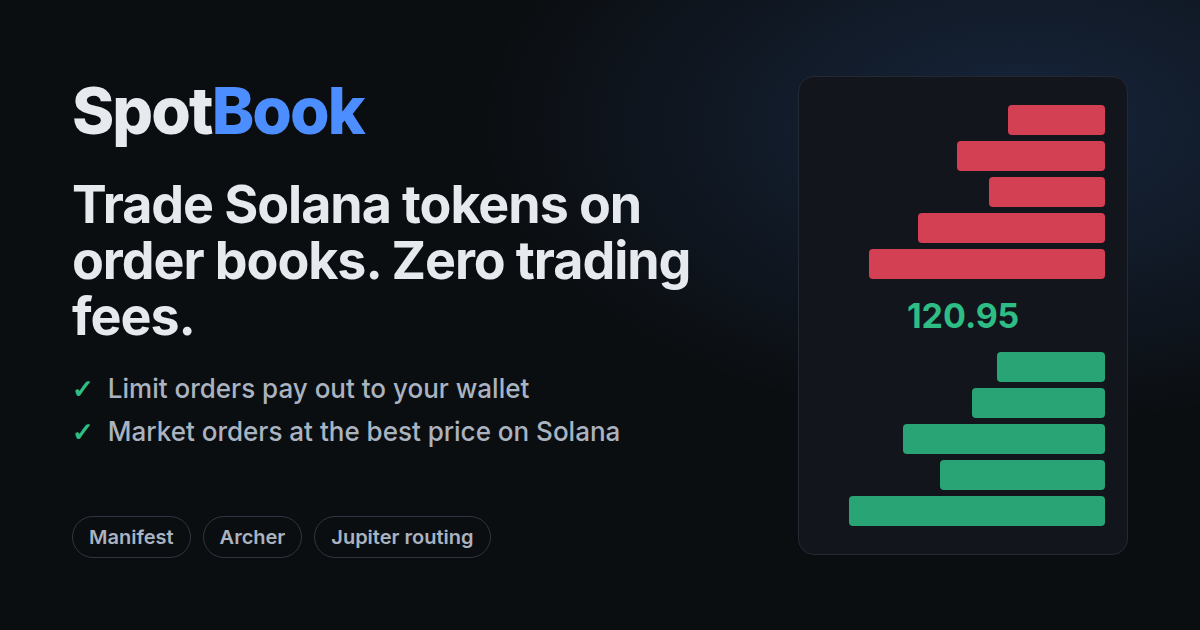
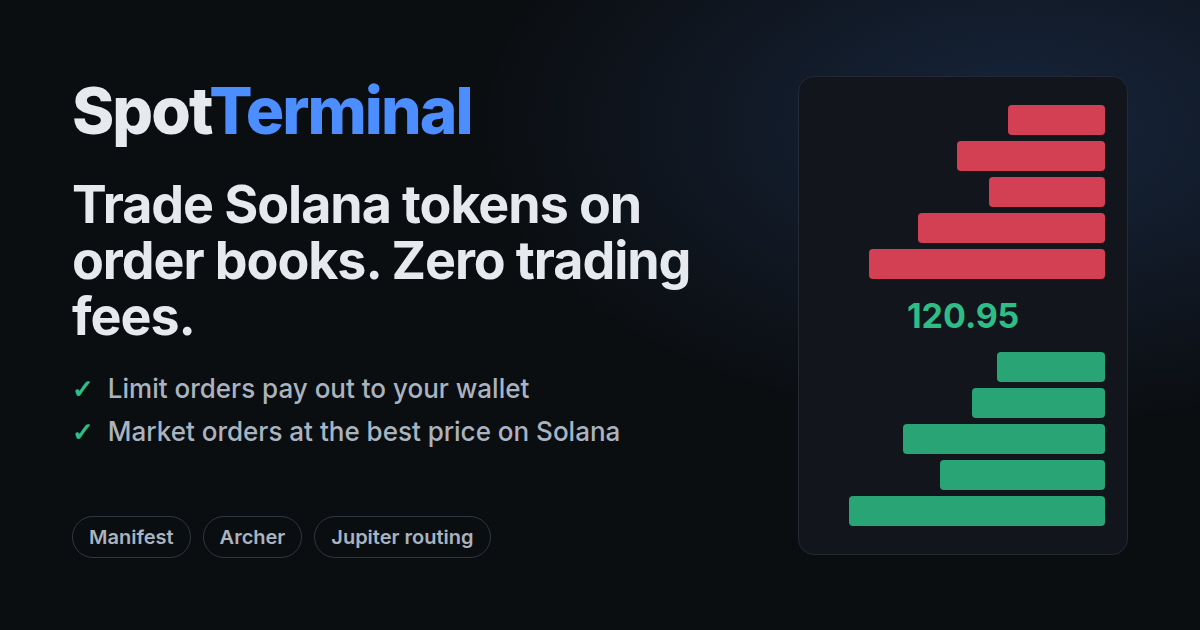
Rename to SpotTerminal (spotterminal.com); SEO basics
- SpotBook -> SpotTerminal everywhere (brand, logo, share image, manifest, notifications, tax
  exports, legal pages); canonical URLs on https://spotterminal.com (PUBLIC_URL), www redirects
  to the apex.
- robots.txt, sitemap.xml (home, legal pages, the 1000 busiest markets with verified tokens),
  WebApplication JSON-LD on the home page, noindex on /account, and real 404s for unknown URLs
  instead of 200s (soft 404s).
- deploy/: nginx configs for spotterminal.com (certbot) and juporderbook.com, which goes back to
  the original app on port 3006.
- deploy.sh passes --update-env so ecosystem env changes take effect.

Claude-Session: https://claude.ai/code/session_019AgDqVqMe97GtyVzU47gWg

Changed region(s): [[0.1542, 0.1206, 0.4008, 0.2111]]

diff --git a/backend/src/server.js b/backend/src/server.js
@@ -49,7 +49,7 @@ async function referencePrice(address) {
 }
 
 const ammChart = new AmmChart({ markets });
-const ledger = new Ledger(); // what moved into / out of SpotBook, for the tax exports
+const ledger = new Ledger(); // what moved into / out of SpotTerminal, for the tax exports
 const orders = new OrderService({
     markets, store: orderStore, keeperPubkey: keeperKeypair.publicKey, referencePrice, ledger,
     jupiter: (path, init) => registry.jupFetch(path, init),
@@ -204,6 +204,12 @@ function requireMarket(req, res) {
 }
 
 const app = express();
+// One address for search engines and links: www.spotterminal.com -> spotterminal.com.
+app.use((req, res, next) => {
+    const host = req.get('host') || '';
+    if (host.startsWith('www.')) return res.redirect(301, `https://${host.slice(4)}${req.originalUrl}`);
+    next();
+});
 app.disable('x-powered-by');
 app.use(express.json({ limit: '64kb' }));
 
@@ -614,7 +620,7 @@ app.get('/api/tax/export', rateLimit('tax', 30, 60_000), (req, res) => {
         const rows = buildRows(ledger.forWallet(wallet), (mint) => registry.display(mint), { year });
         log.info('tax', 'export', { wallet: short(wallet), app: taxApp, year: year || 'all', rows: rows.length });
         res.set('Content-Type', 'text/csv; charset=utf-8');
-        res.set('Content-Disposition', `attachment; filename="spotbook-${taxApp}-${year || 'all-time'}.csv"`);
+        res.set('Content-Disposition', `attachment; filename="spotterminal-${taxApp}-${year || 'all-time'}.csv"`);
         res.set('Cache-Control', 'no-store');
         res.send(exportCsv(taxApp, rows));
     } catch (err) {
@@ -682,6 +688,50 @@ app.use('/api', (req, res) => res.status(404).json({ error: 'Not found' }));
 
 const DEFAULT_DESCRIPTION = 'Trade Solana tokens on on-chain order books with zero trading fees. Limit orders pay out to your wallet automatically; market orders get the best price across Solana.';
 const PAGE_TITLES = { '/account': 'Account', '/terms': 'Terms of Service', '/privacy': 'Privacy Policy' };
+// Pages search engines shouldn't list: personal (account) or a redirect (old orderbook links).
+const NOINDEX = new Set(['/account', '/orderbook']);
+const siteOrigin = (req) => config.publicUrl || `https://${req.get('host')}`;
+
+/** A real page (200) or not (404, so search engines don't list made-up URLs as pages). */
+function pageExists(req) {
+    if (req.path === '/' || PAGE_TITLES[req.path] || NOINDEX.has(req.path)) return true;
+    const m = req.path.match(/^\/trade\/([1-9A-HJ-NP-Za-km-z]{32,44})$/);
+    return !!(m && markets.summary(m[1]));
+}
+
+app.get('/robots.txt', (req, res) => {
+    res.type('text/plain').set('Cache-Control', 'public, max-age=3600').send([
+        'User-agent: *',
+        'Allow: /',
+        'Disallow: /api/',
+        'Disallow: /account',
+        '',
+        `Sitemap: ${siteOrigin(req)}/sitemap.xml`,
+        '',
+    ].join('\n'));
+});
+
+// The home page, the legal pages, and the markets worth finding: both tokens verified and
+// trading, busiest first.
+app.get('/sitemap.xml', (req, res) => {
+    const origin = siteOrigin(req);
+    const today = new Date().toISOString().slice(0, 10);
+    const tradable = markets.allSummaries()
+        .filter(s => s.bidCount + s.askCount > 0)
+        .map(marketView)
+        .filter(v => v.base.verified && v.quote.verified)
+        .sort((a, b) => (b.volume24hUsd ?? 0) - (a.volume24hUsd ?? 0))
+        .slice(0, 1000);
+    const url = (loc, priority, freq) => `  <url><loc>${escapeHtml(origin + loc)}</loc><lastmod>${today}</lastmod><changefreq>${freq}</changefreq><priority>${priority}</priority></url>`;
+    const body = [
+        url('/', '1.0', 'daily'),
+        ...tradable.map((v, i) => url(`/trade/${v.address}`, i < 50 ? '0.8' : '0.5', 'hourly')),
+        url('/terms', '0.2', 'yearly'),
+        url('/privacy', '0.2', 'yearly'),
+    ];
+    res.type('application/xml').set('Cache-Control', 'public, max-age=3600')
+        .send(`<?xml version="1.0" encoding="UTF-8"?>\n<urlset xmlns="http://www.sitemaps.org/schemas/sitemap/0.9">\n${body.join('\n')}\n</urlset>\n`);
+});
 const escapeHtml = (v) => String(v).replace(/[&<>"']/g, c => ({ '&': '&amp;', '<': '&lt;', '>': '&gt;', '"': '&quot;', "'": '&#39;' }[c]));
 
 function pageMeta(req) {
@@ -705,9 +755,9 @@ function formatNumber(n) {
     return n >= 1 ? n.toLocaleString('en-US', { maximumFractionDigits: n >= 100 ? 2 : 4 }) : n.toPrecision(4);
 }
 
-function renderIndex(html, req) {
+function renderIndex(html, req, { found = true } = {}) {
     const { title, description } = pageMeta(req);
-    const origin = config.publicUrl || `https://${req.get('host')}`;
+    const origin = siteOrigin(req);
     const url = `${origin}${req.path === '/' ? '' : req.path}`;
     const image = `${origin}/og.png`;
     const tags = [
@@ -725,6 +775,19 @@ function renderIndex(html, req) {
         `<meta name="twitter:title" content="${escapeHtml(title)}" />`,
         `<meta name="twitter:description" content="${escapeHtml(description)}" />`,
         `<meta name="twitter:image" content="${escapeHtml(image)}" />`,
+        ...(!found || NOINDEX.has(req.path) ? ['<meta name="robots" content="noindex" />'] : []),
+        // What the site is, for search results (schema.org).
+        ...(req.path === '/' ? [`<script type="application/ld+json">${JSON.stringify({
+            '@context': 'https://schema.org',
+            '@type': 'WebApplication',
+            name: config.brand,
+            url: origin,
+            description: DEFAULT_DESCRIPTION,
+            applicationCategory: 'FinanceApplication',
+            operatingSystem: 'Web',
+            offers: { '@type': 'Offer', price: '0', priceCurrency: 'USD' },
+            publisher: { '@type': 'Organization', name: 'LiqFlow LLC', email: 'support@liqflow.app' },
+        }).replace(/</g, '\\u003c')}</script>`] : []),
     ].join('\n    ');
     return html
         .replace(/<title>[^<]*<\/title>/, `<title>${escapeHtml(title)}</title>`)
@@ -747,8 +810,10 @@ if (fs.existsSync(dist)) {
     // Link previews (X, Telegram, Discord...) don't run JavaScript, so each page's title,
     // description and preview tags are filled in here; market links show the pair and price.
     app.get(/^\/(?!api\/).*/, (req, res) => {
+        const found = pageExists(req);
         res.set('Cache-Control', 'no-cache');
-        res.type('html').send(renderIndex(indexHtml(), req));
+        // An unknown URL still gets the app (which shows the default market), but as a 404.
+        res.status(found ? 200 : 404).type('html').send(renderIndex(indexHtml(), req, { found }));
     });
 }
 

diff --git a/frontend/src/components/AccountPage.jsx b/frontend/src/components/AccountPage.jsx
@@ -17,11 +17,11 @@ const sol = (n) => `${Number(n || 0).toFixed(5)} SOL`;
 
 // One CSV per tax app, each in the format that app documents for custom imports.
 const TAX_APPS = [
-  { id: 'koinly', name: 'Koinly', howto: 'Add a new wallet named SpotBook (pick the custom / other option if asked), then use Import from file and upload the Koinly CSV. Koinly matches its deposits and withdrawals with your imported Solana wallet by transaction ID, and the token columns include each mint address so the right token is picked.' },
-  { id: 'cointracker', name: 'CoinTracker', howto: 'Go to Wallets → Add wallets, search for CSV, and upload the CoinTracker CSV as a wallet named SpotBook. CoinTracker pairs its sends and receives with your Solana wallet as transfers.' },
-  { id: 'coinledger', name: 'CoinLedger', howto: 'Upload the CoinLedger CSV under Import → Other Account (the universal manual import), then use Edit Name to call it SpotBook. Deposits and withdrawals are self-transfers there.' },
+  { id: 'koinly', name: 'Koinly', howto: 'Add a new wallet named SpotTerminal (pick the custom / other option if asked), then use Import from file and upload the Koinly CSV. Koinly matches its deposits and withdrawals with your imported Solana wallet by transaction ID, and the token columns include each mint address so the right token is picked.' },
+  { id: 'cointracker', name: 'CoinTracker', howto: 'Go to Wallets → Add wallets, search for CSV, and upload the CoinTracker CSV as a wallet named SpotTerminal. CoinTracker pairs its sends and receives with your Solana wallet as transfers.' },
+  { id: 'coinledger', name: 'CoinLedger', howto: 'Upload the CoinLedger CSV under Import → Other Account (the universal manual import), then use Edit Name to call it SpotTerminal. Deposits and withdrawals are self-transfers there.' },
   { id: 'awaken', name: 'Awaken', howto: 'Add a new account using CSV upload and upload the Awaken CSV. With your Solana wallet also imported, Awaken matches the transfers between the two accounts. Amounts are limited to 8 decimal places, so dust below that is left out.' },
-  { id: 'cointracking', name: 'CoinTracking', howto: 'Use the bulk import (Enter Coins → Import). The file follows the bulk-import column order with Trade, Deposit and Withdrawal types and SpotBook as the exchange. If it only accepts its Excel template, paste these rows into the template.' },
+  { id: 'cointracking', name: 'CoinTracking', howto: 'Use the bulk import (Enter Coins → Import). The file follows the bulk-import column order with Trade, Deposit and Withdrawal types and SpotTerminal as the exchange. If it only accepts its Excel template, paste these rows into the template.' },
 ];
 
 export default function AccountPage() {
@@ -142,8 +142,8 @@ export default function AccountPage() {
         <section className="account-card">
           <h2>Tax reports</h2>
           <p className="muted">
-            Your SpotBook activity as a CSV file for your tax app. Import your Solana wallet in the app as usual,
-            then add this file as a separate account named SpotBook. Money moving into and out of SpotBook keeps
+            Your SpotTerminal activity as a CSV file for your tax app. Import your Solana wallet in the app as usual,
+            then add this file as a separate account named SpotTerminal. Money moving into and out of SpotTerminal keeps
             your wallet&apos;s transaction IDs, so the app pairs it as transfers between your own accounts, and each
             limit order fill is a trade at your order&apos;s price.
           </p>
@@ -152,7 +152,7 @@ export default function AccountPage() {
           ) : !tax ? (
             <div className="account-row"><span className="spinner" /> Loading…</div>
           ) : tax.entries === 0 ? (
-            <div className="account-row">No SpotBook activity yet.</div>
+            <div className="account-row">No SpotTerminal activity yet.</div>
           ) : (
             <>
               <label className="account-row tax-year">

diff --git a/backend/src/orders/orderService.js b/backend/src/orders/orderService.js
@@ -205,7 +205,7 @@ function parseMint(mint) {
 
 export class OrderService {
     constructor({ markets, store, keeperPubkey, referencePrice = null, jupiter = null, usdPrices = null, ledger = null }) {
-        this.ledger = ledger; // what moved into / out of SpotBook, for tax exports (orders/ledger.js)
+        this.ledger = ledger; // what moved into / out of SpotTerminal, for tax exports (orders/ledger.js)
         this.markets = markets;
         this.usdPrices = usdPrices; // async (mints) => { mint: usd } (to value transaction fees)
         this.jupiter = jupiter; // (pathAndQuery, { method, body }) => Promise<json>, rate limited
@@ -256,7 +256,7 @@ export class OrderService {
         return BigInt(order.baseAtoms) - (resting ? BigInt(resting.numBaseAtoms.toString()) : 0n);
     }
 
-    /** Record a landed transaction's fills (first) and its moves between the wallet and SpotBook. */
+    /** Record a landed transaction's fills (first) and its moves between the wallet and SpotTerminal. */
     recordLanded({ kind, wallet, sig, moves = [], fills = [], market = null, orderId = null }) {
         for (const f of fills) {
             const order = this.store.get(f.orderId);
@@ -1468,7 +1468,7 @@ export class OrderService {
     }
 }
 
-/** A withdraw-all's amounts as ledger moves out of SpotBook. */
+/** A withdraw-all's amounts as ledger moves out of SpotTerminal. */
 function withdrawMoves(ctx, withdrawn) {
     if (!withdrawn) return [];
     return [{ mint: ctx.baseMint, atoms: withdrawn.base, dir: 'out' }, { mint: ctx.quoteMint, atoms: withdrawn.quote, dir: 'out' }];

diff --git a/backend/src/orders/ledger.js b/backend/src/orders/ledger.js
@@ -1,14 +1,14 @@
-// What each wallet moved into and out of SpotBook, and every fill inside it: the record the
+// What each wallet moved into and out of SpotTerminal, and every fill inside it: the record the
 // tax-software exports are built from (tax/exports.js).
 //
 // Tax apps see a wallet's own transactions, but a limit order's fill happens in someone else's
-// transaction and its funds sit in the market's shared vault. So the exports describe SpotBook as
+// transaction and its funds sit in the market's shared vault. So the exports describe SpotTerminal as
 // an account of the user's: deposits into it (order funds, payout-account rent) and withdrawals
 // out of it (payouts, cancels, refunds) carry the wallet transaction's hash, so the tax app pairs
 // them with the wallet import as transfers; fills are trades inside it at the order's price.
 //
 // Entry: { key, wallet, at, kind, sig?, orderId?, market?, moves: [{ mint, atoms, dir }], trade? }
-//   dir 'in'  = wallet -> SpotBook, 'out' = SpotBook -> wallet (atoms: positive integer string)
+//   dir 'in'  = wallet -> SpotTerminal, 'out' = SpotTerminal -> wallet (atoms: positive integer string)
 //   trade = { side, baseMint, quoteMint, baseAtoms, quoteAtoms, price } (side: the user's side)
 //   external: true marks wallet-level swaps (Jupiter), which the tax apps read from the wallet itself.
 import fs from 'fs';

diff --git a/backend/src/tax/exports.js b/backend/src/tax/exports.js
@@ -1,7 +1,7 @@
-// CSV exports of a wallet's SpotBook activity for crypto tax software, one file per app in the
+// CSV exports of a wallet's SpotTerminal activity for crypto tax software, one file per app in the
 // format that app documents for custom imports.
 //
-// The model: SpotBook is an account of the user's. Funds moving into it (order funds, payout
+// The model: SpotTerminal is an account of the user's. Funds moving into it (order funds, payout
 // account rent) are deposits; funds coming back (payouts, cancels, refunds) are withdrawals; both
 // carry the wallet transaction's hash so the app pairs them with the user's imported Solana wallet
 // as transfers between their own accounts (not sales). A limit order fill is a trade inside the
@@ -18,7 +18,7 @@ import { SOL_MINT } from '../orders/ledger.js';
 
 export const TAX_APPS = ['koinly', 'cointracker', 'coinledger', 'awaken', 'cointracking'];
 
-const PLATFORM = 'SpotBook';
+const PLATFORM = 'SpotTerminal';
 
 /** 1234500n, 6 -> "1.2345" (exact, never exponent notation). */
 function atomsToDecimal(atoms, decimals) {

diff --git a/ecosystem.config.js b/ecosystem.config.js
@@ -4,10 +4,10 @@ module.exports = {
     script: 'backend/src/server.js',
     cwd: '/home/phil/workspace/spot-aggregator',
     interpreter: '/home/phil/.nvm/versions/node/v20.20.2/bin/node',
-    // nginx proxies juporderbook.com to 127.0.0.1:3000.
+    // nginx proxies spotterminal.com to 127.0.0.1:3000.
     // Payouts are paid by LiqFlow LLC's hot wallet (56Pk…, shared with Skirmish). It only ever
     // holds a little SOL; the treasury is on a hardware wallet.
-    env: { PORT: '3000', HOST: '127.0.0.1', NODE_ENV: 'production', KEEPER_KEYPAIR: '/home/phil/workspace/private/56PkvJkiApTphSBnWGT43wdG2YuPf5jWzHK4S7oJ4wzR/keypair.json' },
+    env: { PORT: '3000', HOST: '127.0.0.1', NODE_ENV: 'production', PUBLIC_URL: 'https://spotterminal.com', KEEPER_KEYPAIR: '/home/phil/workspace/private/56PkvJkiApTphSBnWGT43wdG2YuPf5jWzHK4S7oJ4wzR/keypair.json' },
     error_file: 'logs/pm2-error.log',
     out_file: 'logs/pm2-out.log',
     time: true,

diff --git a/frontend/index.html b/frontend/index.html
@@ -16,9 +16,9 @@
     <link rel="icon" type="image/svg+xml" href="/favicon.svg" />
     <link rel="manifest" href="/manifest.webmanifest" />
     <link rel="apple-touch-icon" href="/icon-192.png" />
-    <title>SpotBook · Solana order books</title>
+    <title>SpotTerminal · Solana order books</title>
     <meta name="description" content="Trade Solana tokens on on-chain order books with zero trading fees. Limit orders pay out to your wallet automatically when they fill." />
-    <script defer data-domain="juporderbook.com" src="https://plausible.io/js/script.js"></script>
+    <script defer data-domain="spotterminal.com" src="https://plausible.io/js/script.js"></script>
     <!-- The chart library is big and only requested once the app runs: start fetching it now. -->
     <link rel="preload" href="/charting_library/charting_library.standalone.js" as="script" />
   </head>

diff --git a/frontend/src/components/TradingViewChart.jsx b/frontend/src/components/TradingViewChart.jsx
@@ -66,7 +66,7 @@ export default function TradingViewChart({ address, onTrade, orders = [], onCanc
   const addressRef = useRef(address); // the market we should show
   const shownRef = useRef(null);      // the market the chart was last told to show
   const [error, setError] = useState(null);
-  // Which chart: SpotBook's own book (the default: what limit orders fill against), or the most
+  // Which chart: SpotTerminal's own book (the default: what limit orders fill against), or the most
   // active pool for the pair anywhere on Solana.
   const [source, setSource] = useState('manifest');
   const ticker = source === 'amm' ? ammTicker(address) : address;

diff --git a/frontend/src/components/TopBar.jsx b/frontend/src/components/TopBar.jsx
@@ -6,7 +6,7 @@ import './TopBar.css';
 export default function TopBar() {
   return (
     <header className="topbar">
-      <Link to="/" className="brand">{BRAND.replace(/Book$/, '')}<span>Book</span></Link>
+      <Link to="/" className="brand">{BRAND.replace(/Terminal$/, "")}<span>Terminal</span></Link>
       <nav className="topnav">
         <NavLink to="/" className={({ isActive }) => `topnav-item ${isActive || window.location.pathname.startsWith('/trade') ? 'active' : ''}`} end>Trade</NavLink>
         <NavLink to="/account" className={({ isActive }) => `topnav-item ${isActive ? 'active' : ''}`}>Account</NavLink>

diff --git a/frontend/public/sw.js b/frontend/public/sw.js
@@ -2,8 +2,8 @@
 // and opens the market when one is tapped.
 self.addEventListener('push', (event) => {
   let data = {};
-  try { data = event.data ? event.data.json() : {}; } catch { data = { title: 'SpotBook', body: event.data?.text() }; }
-  event.waitUntil(self.registration.showNotification(data.title || 'SpotBook', {
+  try { data = event.data ? event.data.json() : {}; } catch { data = { title: 'SpotTerminal', body: event.data?.text() }; }
+  event.waitUntil(self.registration.showNotification(data.title || 'SpotTerminal', {
     body: data.body || '',
     icon: '/icon-192.png',
     badge: '/icon-192.png',

diff --git a/backend/src/config.js b/backend/src/config.js
@@ -24,7 +24,7 @@ export const config = {
     // Re-scan every Manifest market this often (one getProgramAccounts call).
     marketScanMs: Number(process.env.MARKET_SCAN_MS) || 60_000,
     // Public name and URL for link previews (keep in sync with frontend/src/brand.js).
-    brand: process.env.BRAND || 'SpotBook',
+    brand: process.env.BRAND || 'SpotTerminal',
     publicUrl: process.env.PUBLIC_URL || '', // empty: derived from the request's Host
     // Polling of markets being viewed / only awaiting a payout (each poll is 1 RPC credit total).
     viewPollMs: Number(process.env.VIEW_POLL_MS) || 3_000,

diff --git a/backend/src/marketdata/ammChart.js b/backend/src/marketdata/ammChart.js
@@ -1,5 +1,5 @@
 // The "all Solana" chart: candles from the most active pool trading the pair anywhere on Solana
-// (Orca, Raydium, Meteora, ...), via GeckoTerminal. The Manifest chart shows SpotBook's own book,
+// (Orca, Raydium, Meteora, ...), via GeckoTerminal. The Manifest chart shows SpotTerminal's own book,
 // which is what limit orders fill against; this one shows where the market as a whole traded.
 //
 // Pool choice: the pair's own pool with the most 24h volume (not liquidity: some pools report
